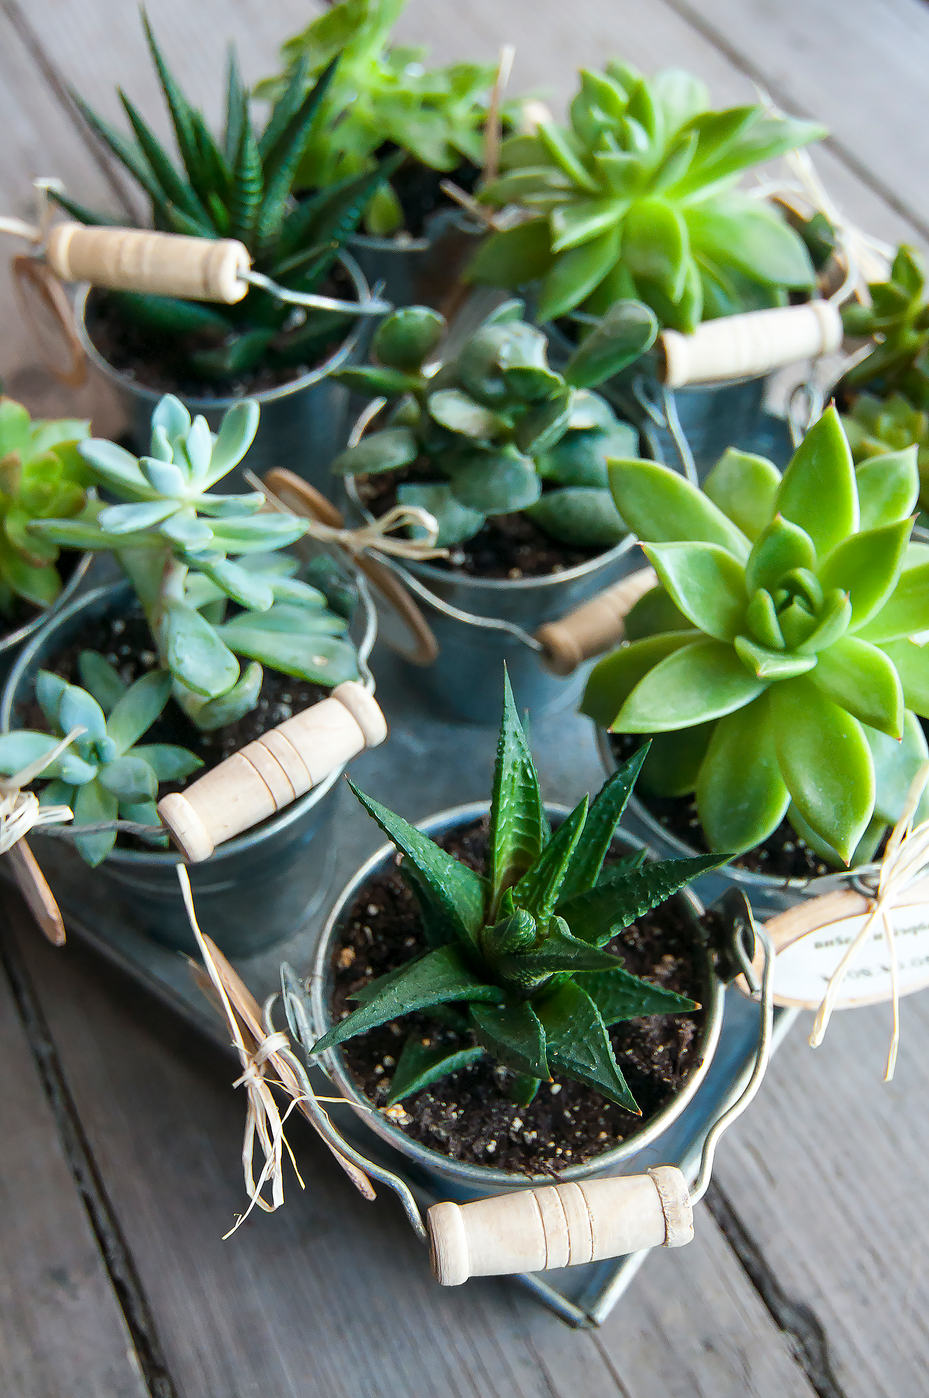
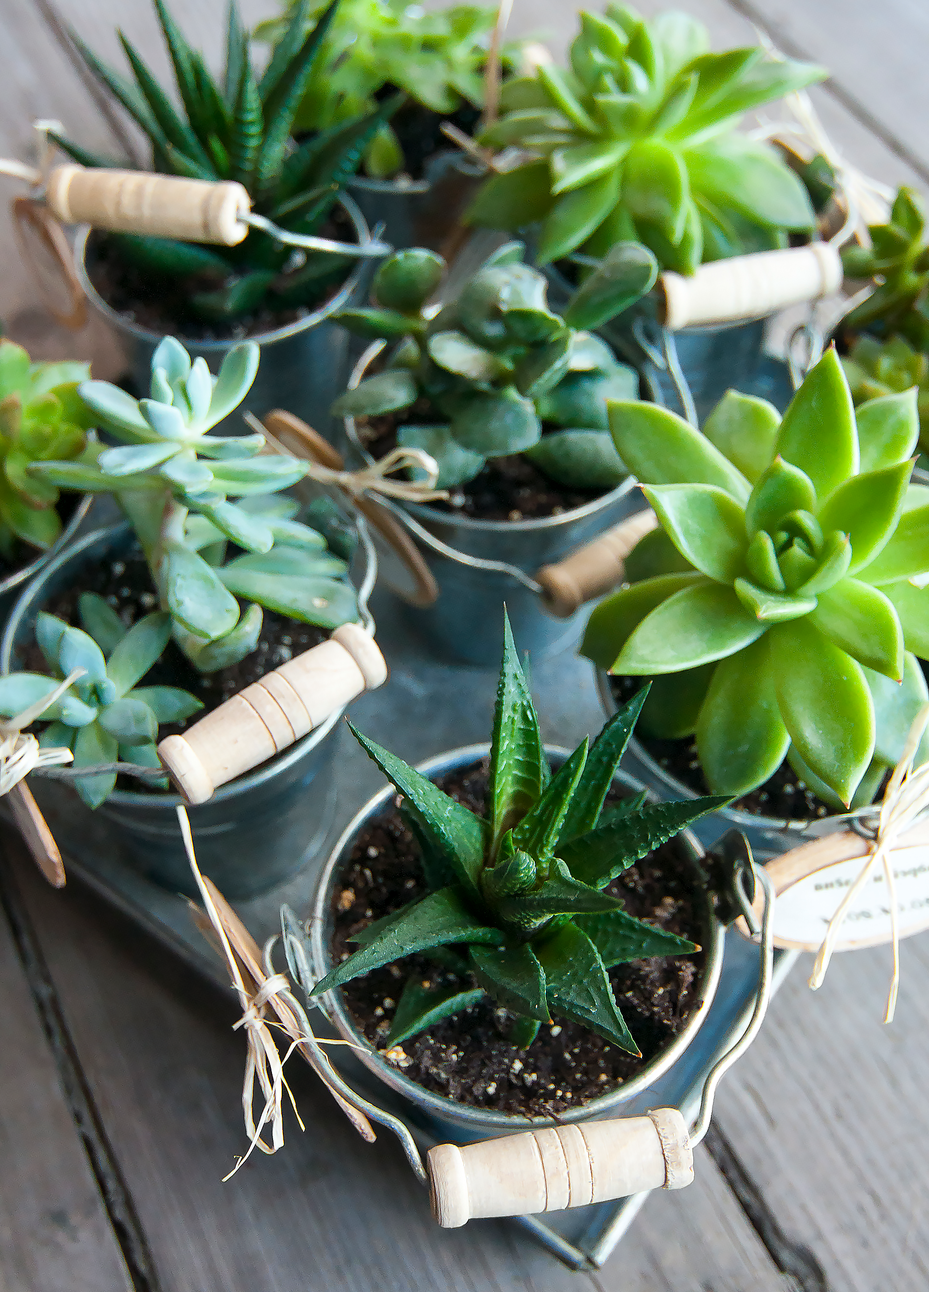
changed imd

diff --git a/css/our-plants.css b/css/our-plants.css
@@ -26,6 +26,7 @@
     font-size: 18px;
     margin-bottom: 25px;
     text-align: center;
+
 }
 
 .our-plants__btn {
@@ -45,14 +46,12 @@ width: 100%;
 margin-top: 20px;
 }
 .img__container {
-    min-width: 10%
+   width: 100%;
+   margin: -19px;;
 }
 .indoor__img,
 .outdoor__img {
-    height: 69vh;
-    width: 50vh;
-    object-fit: cover;
-    object-position: 50% 50%;
+    width: 100%;
     border-radius: 5px;
     margin-bottom: 20px;
     margin: 20px 20px;;
@@ -79,14 +78,14 @@ margin-top: 20px;
     font-family: "Source Sans Pro", sans-serif;
     text-align: left;
     margin-bottom: 20px;
-    padding-left: 20px;
+    padding-left: 8px;
 }
 .indoor__text,.outdoor__text {
     line-height: 1.5;
     word-spacing: 3px;
     margin-bottom: 20px;
     text-align: left;
-    padding-left: 20px;
+    padding-left: 8px;
     
 }
 .our-plants__buttons {
